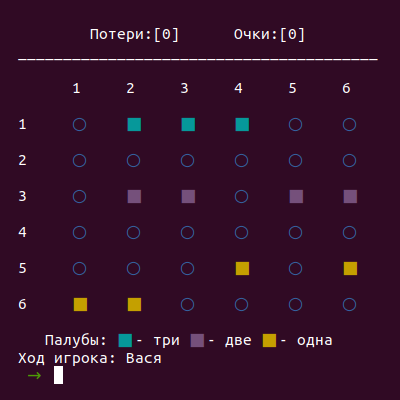
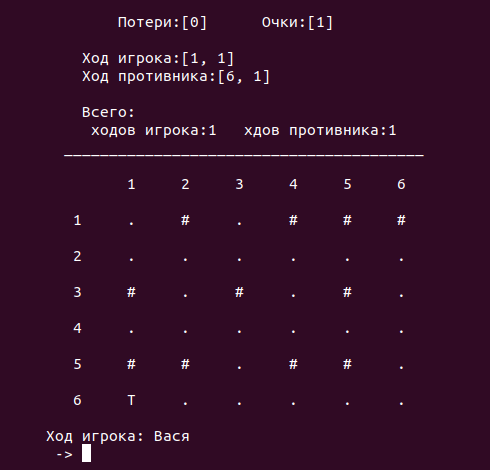
2020.11.15

diff --git a/sea_battle.py b/sea_battle.py
@@ -8,9 +8,6 @@ from os import system, name
 from time import sleep
 
 
-from termcolor import colored
-
-
 class Battlefield():
     '''
     Класс поля боя.
@@ -19,7 +16,7 @@ class Battlefield():
 
     def __init__(self, battle_ships):
         # Игровое поле.
-        empty_field = colored('○', 'blue')
+        empty_field = '.'
         self.fieldMatrix = {
             0:{0:' ', 1:'1', 2:'2', 3:'3', 4:'4', 5:'5', 6:'6'},
             1:{0:'1', 1:empty_field, 2:empty_field, 3:empty_field, 4:empty_field, 5:empty_field, 6:empty_field},
@@ -39,17 +36,24 @@ class Battlefield():
         self.populate_battlefield()
 
 
-    def display_play_field(self, hits, score):
+    def display_play_field(self,*args, **kwargs):
         '''
         Отрисовки поля боя.
+        player_hints - потери игрока
+        player_score - очки игрока
+        player_last_shot - координаты последнего выстрела игрока
+        player_total_shots - всего выстрелов игрока
+        enemy_last_shot - координаты последнего выстрела противника
+        enemy_total_shots - всего выстрелов противника
         '''
-        print(f"\n\tПотери:[{hits}]\tОчки:[{score}]")
-        print(f"{'_' * 40}\n")
+        print(f"\n\tПотери:[{kwargs['player_hints']}]\tОчки:[{kwargs['player_score']}]")
+        print(f"\n    Ход игрока:{kwargs['player_last_shot']}\n    Ход противника:{kwargs['enemy_last_shot']}")
+        print(f"\n    Всего:\n     ходов игрока:{kwargs['player_total_shots']}   хдов противника:{kwargs['enemy_total_shots']}")
+        print(f"  {'_' * 40}\n")
         for ox in self.fieldMatrix:
             for oy in self.fieldMatrix[ox].values():
-                print(oy, end = f"{' ' * 5}")
+                print(f"   {oy}", end = f"{' ' * 2}")
             print('\n')
-        print(f"   Палубы: {colored('■', 'cyan')} - три {colored('■', 'magenta')} - две {colored('■', 'yellow')} - одна")
 
 
     def populate_battlefield(self):
@@ -109,10 +113,9 @@ class BattleShip():
     '''
 
 
-    desk = '■'
-    bang = colored('✘', 'red')
-    blunder = colored('T', 'green')
-
+    desk = '#'
+    bang = 'X'
+    blunder = 'T'
 
     def __init__(self, ship_decks):
         self.__ship_decks = []
@@ -150,10 +153,9 @@ class BattleShip():
         '''
         Обозначить палубы корабля.
         '''
-        ship_colors = {1:"yellow", 2:"magenta", 3:"cyan"}
         if 0 < ship_decks < 4:
             for _ in range(ship_decks):
-                self.__ship_decks.append(colored(BattleShip.desk, ship_colors[ship_decks]))
+                self.__ship_decks.append(BattleShip.desk)
             return ship_decks
         else:
             raise(IndexError)
@@ -197,7 +199,8 @@ class Player():
         self.__player_name = name
         self.__score = 0
         self.__hint = 0
-        self._shot_history = []
+        self.last_shot = ''
+        self.shot_history = []
         self.fleet = fleet
         self.battlefield = battlefield
 
@@ -255,26 +258,31 @@ class Player():
         Выстрел игрока.
         '''
         while True:
-            __move = input(colored(' →  ', 'green'))
+            __move = input(' -> ')
+
             # Выход из игры.
             if __move == 'q':
-                print("До встречи! ✋\n")
+                print("До встречи!\n")
                 sys.exit()
+
             # Обработка ввода.
             elif __move.isdigit() and (len(__move) == 2 and 0 < (int(__move[0]) and int(__move[1])) < 7):                    
                 try:
                     # Проверка выстрела на повтор.
-                    if [__move[0], __move[1]] in self._shot_history:
+                    self.last_shot = [int(__move[0]), int(__move[1])]
+                    if self.last_shot in self.shot_history:
                         raise DoubleShotException()
-                    self._shot_history.append([__move[0], __move[1]])
+                    self.shot_history.append(self.last_shot)
                     break
                 except DoubleShotException:
-                    print(f"💀 {colored('Повторная стрельба по одним координатам запрещена!', 'red')} 💀")
+                    print(f"Повторная стрельба по одним координатам запрещена!")
                     continue
+
             else:
                 print("Введите корректное значение!")
                 continue
-            return __move
+
+        return self.last_shot
 
 
 class AIPlayer(Player):
@@ -293,11 +301,13 @@ class AIPlayer(Player):
         while True:
             ox = random.randint(1, 6)
             oy = random.randint(1, 6)
-            if [ox, oy] in self._shot_history:
+
+            self.last_shot = [ox, oy]
+            if self.last_shot in self.shot_history:
                 continue
             break
-        self._shot_history.append([ox, oy])
-        return(f"{ox}{oy}")
+        self.shot_history.append(self.last_shot)
+        return(self.last_shot)
 
 
     def move(self):
@@ -377,13 +387,34 @@ class TheGame():
             msg = f"Ход игрока: {player.player_name}"
             while True:
                 self.clear_screen()
-                # self.ai_player.battlefield.display_play_field(self.ai_player.player_hint, self.ai_player.player_score)
+                '''
+                player_hints - потери игрока
+                player_score - очки игрока
+                player_last_shot - координаты последнего выстрела игрока
+                player_total_shots - всего выстрелов игрока
+                enemy_last_shot - координаты последнего выстрела противника
+                enemy_total_shots - всего выстрелов противника
+                '''
+                # Поле противника.
+                # self.ai_player.battlefield.display_play_field(
+                #     player_hints = self.ai_player.player_hint, 
+                #     player_score = self.ai_player.player_score,
+                #     player_last_shot = self.ai_player.last_shot,
+                #     player_total_shots = len(self.ai_player.shot_history),
+                #     enemy_last_shot =self.human_player.last_shot,
+                #     enemy_total_shots = len(self.human_player.shot_history))
                 # Отображать только поле игрока.
-                self.human_player.battlefield.display_play_field(self.human_player.player_hint, self.human_player.player_score)
+                self.human_player.battlefield.display_play_field(
+                    player_hints = self.human_player.player_hint, 
+                    player_score = self.human_player.player_score,
+                    player_last_shot = self.human_player.last_shot,
+                    player_total_shots = len(self.human_player.shot_history),
+                    enemy_last_shot =self.ai_player.last_shot,
+                    enemy_total_shots = len(self.ai_player.shot_history))
                 print(msg)
-                move = player.move() 
+                move = player.move()
                 if move:
-                    player.player_score = self.shot(enemy, ox = int(move[0]), oy = int(move[1]))
+                    player.player_score = self.shot(enemy, ox = move[0], oy = move[1])
                     # continue
                 self.victory(player, enemy)
                 break
@@ -395,8 +426,7 @@ class TheGame():
         '''
         if not enemy.battlefield.position_search(ox, oy):
             # Помечаем клетку по которой велась стрельба.
-            if '○' in enemy.battlefield.fieldMatrix[ox][oy]:
-                print('------------------------------------')
+            if '.' == enemy.battlefield.fieldMatrix[ox][oy]:
                 enemy.battlefield.fieldMatrix[ox][oy] = BattleShip.blunder
             if BattleShip.desk in enemy.battlefield.fieldMatrix[ox][oy]:
                 enemy.battlefield.fieldMatrix[ox][oy] = BattleShip.bang
@@ -415,10 +445,11 @@ class TheGame():
         Определение победителя.
         '''
         if player.player_score == sum([ship.number_of_ship_decks for ship in enemy.fleet]):
-            print(f"🎆 Ура! Пбедил {player.player_name}! 🎆")
+            print(f"Ура! Пбедил {player.player_name}!")
             sys.exit()
 
 
 
 if __name__ == "__main__":
+    # player_name = input("Введите имя игрока: ")
     game = TheGame()
